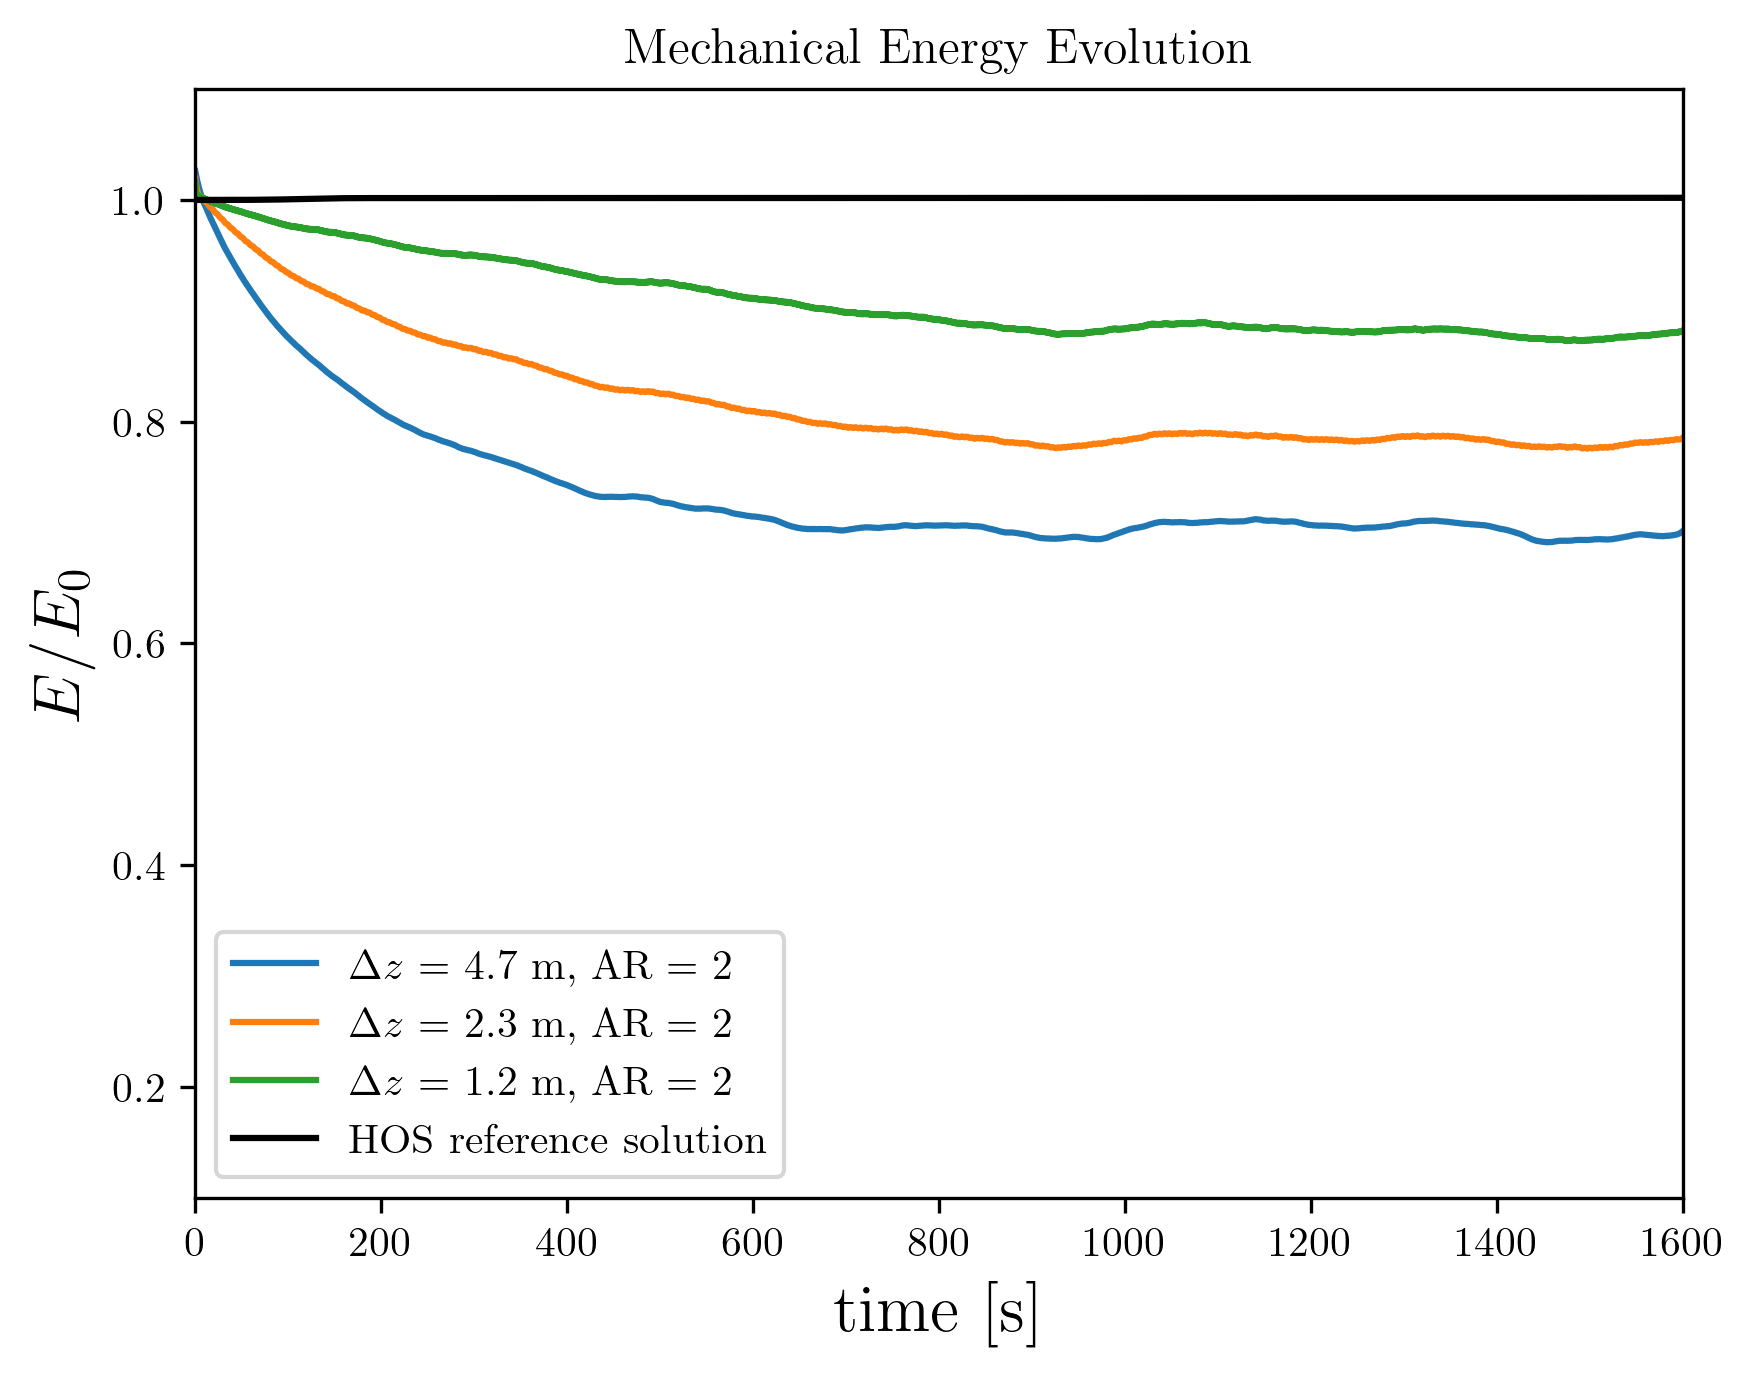
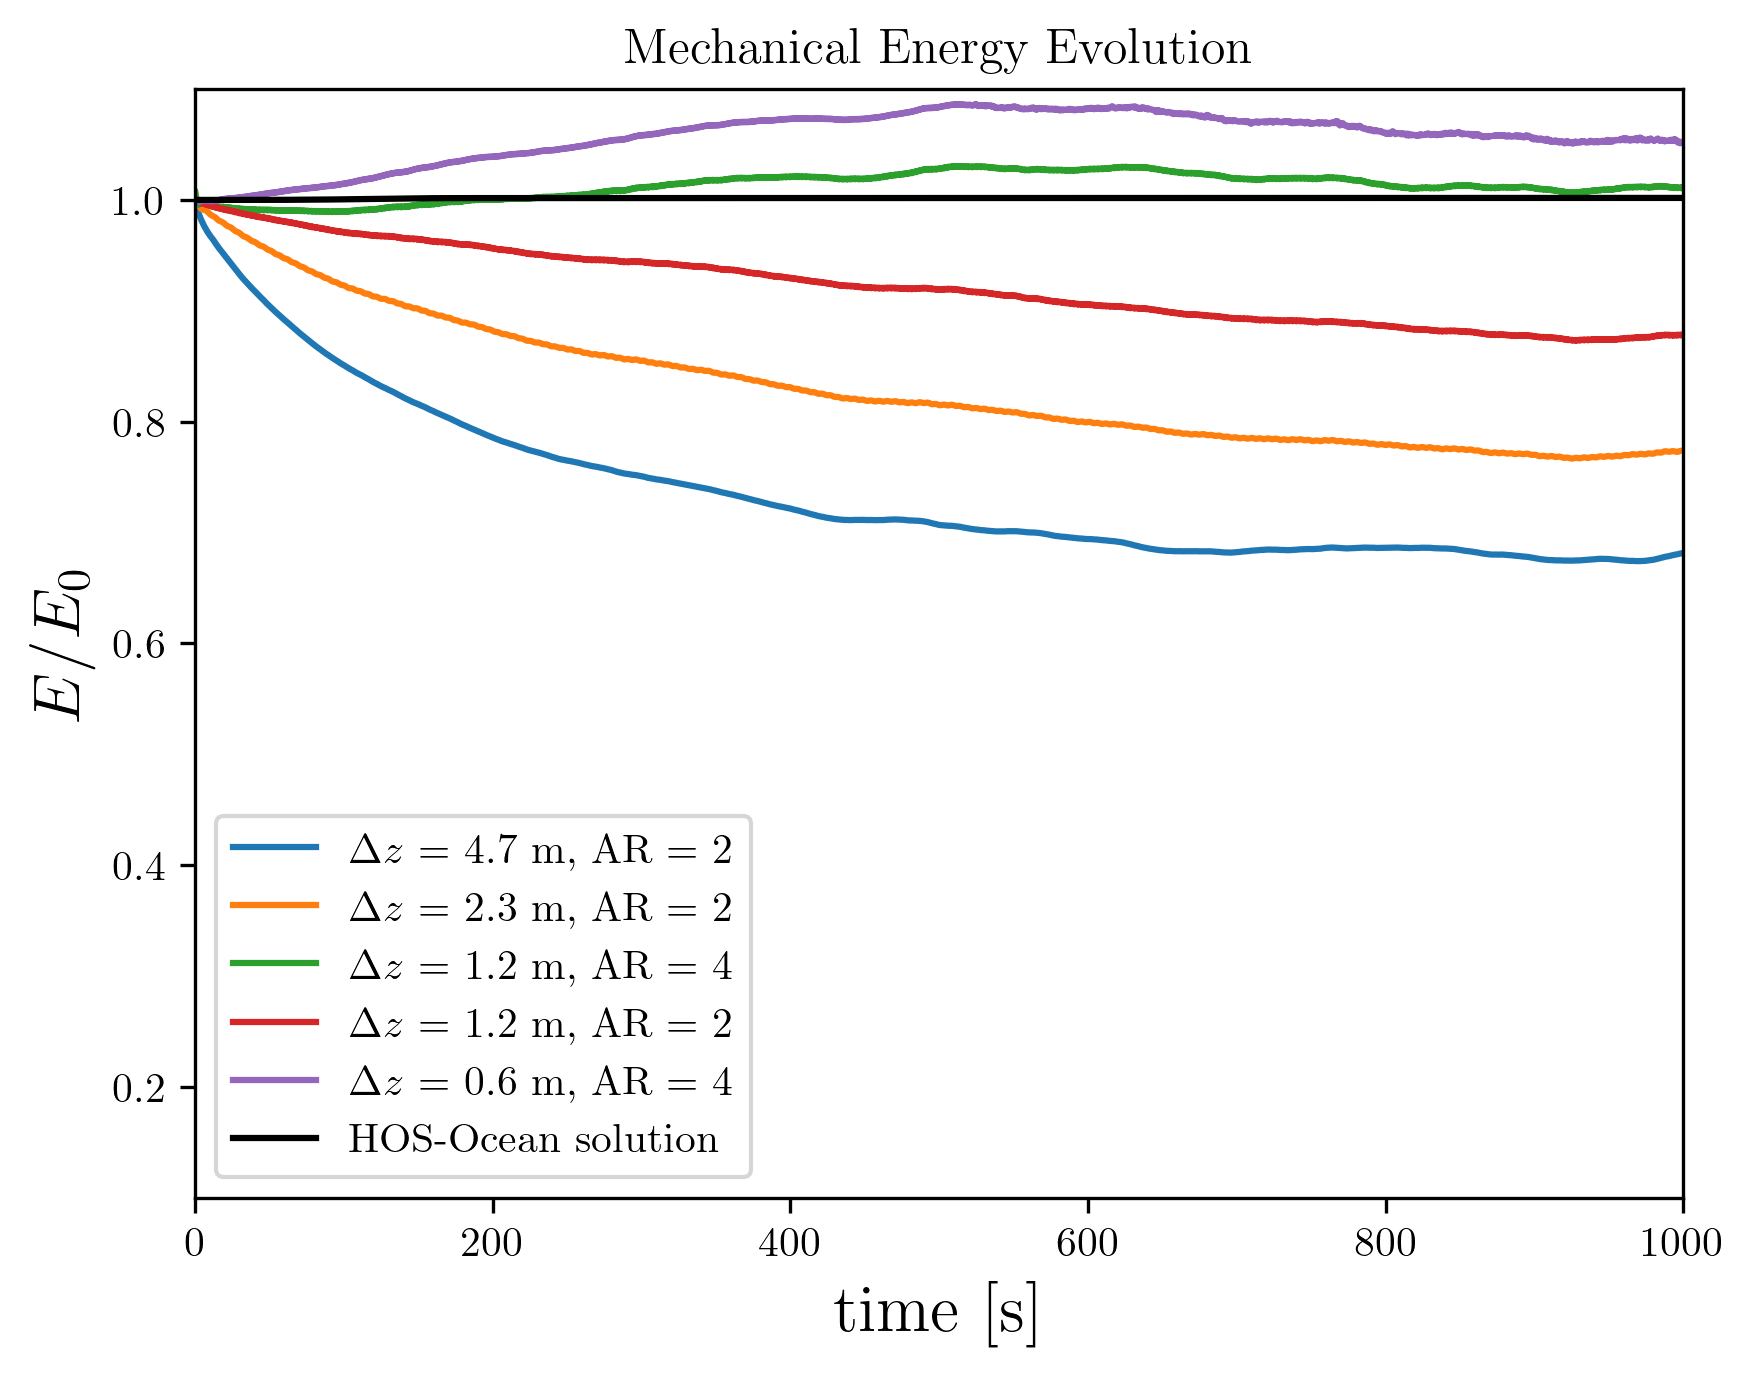
update energy

diff --git a/AMR_Wind_cases/irregular_ocean_periodic/spectral_analysis.py b/AMR_Wind_cases/irregular_ocean_periodic/spectral_analysis.py
@@ -279,6 +279,26 @@ def _(np, path):
     HOSEnergy = np.genfromtxt(path+"/HOS/vol_energy.dat",skip_header=67)
     return (HOSEnergy,)
 
+@app.cell
+def _(np):
+    def trim_array(arr):
+        tally = 0
+        latest_time = arr[arr.shape[0] - 1, 0]
+        for i in range(arr.shape[0] - 2, 0, -1):
+            if (latest_time > arr[i, 1]):
+                tally += 1
+                latest_time = arr[i, 1]
+        arr_new = np.zeros((tally,arr.shape[1]))
+        tally = 0
+        latest_time = arr[arr.shape[0] - 1, 0]
+        for i in range(arr.shape[0] - 2, 0, -1):
+            if (latest_time > arr[i, 1]):
+                tally += 1
+                latest_time = arr[i, 1]
+                arr_new[arr_new.shape[0] - tally, :] = arr[i, :]
+                
+        return arr_new
+    return trim_array
 
 @app.cell
 def _(np, path):
@@ -311,11 +331,13 @@ def _(np, path):
     return CFDE_mech256_fourlev_AR2x, CFD_time256_fourlev_AR2x
 
 @app.cell
-def _(np, path):
+def _(np, path, trim_array):
     ## Load the CFD data
     CFDE_array256_fivelev = np.genfromtxt(path+"/SGF/5_ref_levels/we00000.txt",skip_header=1,delimiter='')
     CFDE_array256_fivelev = np.append(CFDE_array256_fivelev, np.genfromtxt(path+"/SGF/5_ref_levels/we07950.txt",skip_header=1,delimiter=''), axis=0)
     CFDE_array256_fivelev = np.append(CFDE_array256_fivelev, np.genfromtxt(path+"/SGF/5_ref_levels/we10600.txt",skip_header=1,delimiter=''), axis=0)
+
+    CFDE_array256_fivelev = trim_array(CFDE_array256_fivelev)
     
 
     CFDE_mech256_fivelev = CFDE_array256_fivelev[:,2]+CFDE_array256_fivelev[:,3]
@@ -324,11 +346,17 @@ def _(np, path):
     return CFDE_mech256_fivelev, CFD_time256_fivelev
 
 @app.cell
-def _(np, path):
+def _(np, path, trim_array):
     ## Load the CFD data
     CFDE_array256_fivelev_AR2x = np.genfromtxt(path+"/SGF/5_ref_levels_AR2x/we00000.txt",skip_header=1,delimiter='')
     CFDE_array256_fivelev_AR2x = np.append(CFDE_array256_fivelev_AR2x, np.genfromtxt(path+"/SGF/5_ref_levels_AR2x/we20950.txt",skip_header=1,delimiter=''), axis=0)
-    
+    CFDE_array256_fivelev_AR2x = np.append(CFDE_array256_fivelev_AR2x, np.genfromtxt(path+"/SGF/5_ref_levels_AR2x/we20950.txt",skip_header=1,delimiter=''), axis=0)
+    CFDE_array256_fivelev_AR2x = np.append(CFDE_array256_fivelev_AR2x, np.genfromtxt(path+"/SGF/5_ref_levels_AR2x/we41900.txt",skip_header=1,delimiter=''), axis=0)
+    CFDE_array256_fivelev_AR2x = np.append(CFDE_array256_fivelev_AR2x, np.genfromtxt(path+"/SGF/5_ref_levels_AR2x/we42250.txt",skip_header=1,delimiter=''), axis=0)
+    CFDE_array256_fivelev_AR2x = np.append(CFDE_array256_fivelev_AR2x, np.genfromtxt(path+"/SGF/5_ref_levels_AR2x/we43100.txt",skip_header=1,delimiter=''), axis=0)
+    CFDE_array256_fivelev_AR2x = np.append(CFDE_array256_fivelev_AR2x, np.genfromtxt(path+"/SGF/5_ref_levels_AR2x/we57050.txt",skip_header=1,delimiter=''), axis=0)
+
+    CFDE_array256_fivelev_AR2x = trim_array(CFDE_array256_fivelev_AR2x)    
 
     CFDE_mech256_fivelev_AR2x = CFDE_array256_fivelev_AR2x[:,2]+CFDE_array256_fivelev_AR2x[:,3]
 
@@ -374,10 +402,10 @@ def _(
     plt.plot(CFD_time256_fourlev, savgol_filter(CFDE_mech256_fourlev, 11, 3) / ME_ref_CFD, label='$\\Delta z$ = 2.3 m, AR = 2')
     plt.plot(CFD_time256_fourlev_AR2x, savgol_filter(CFDE_mech256_fourlev_AR2x, 11, 3) / ME_ref_CFD, label='$\\Delta z$ = 1.2 m, AR = 4')
     plt.plot(CFD_time256_fivelev, savgol_filter(CFDE_mech256_fivelev, 11, 3) / ME_ref_CFD, label='$\\Delta z$ = 1.2 m, AR = 2')
-    plt.plot(CFD_time256_fivelev_AR2x, savgol_filter(CFDE_mech256_fivelev_AR2x, 11, 3) / ME_ref_CFD, label='$\\Delta z$ = 0.6 m, AR = 4')
+    plt.plot(CFD_time256_fivelev_AR2x, savgol_filter(CFDE_mech256_fivelev_AR2x, 31, 3) / ME_ref_CFD, label='$\\Delta z$ = 0.6 m, AR = 4')
     # plt.plot(CFD_time256_sixlev, savgol_filter(CFDE_mech256_sixlev, 11, 3) / ME_ref_CFD, label='$\\Delta z$ = 0.6 m, AR = 2')
-    plt.plot(HOSEnergy[:, 0], HOSEnergy[:, 4] / ME_ref, 'k', label='HOS reference solution')
-    plt.xlim(0, 1600)
+    plt.plot(HOSEnergy[:, 0], HOSEnergy[:, 4] / ME_ref, 'k', label='HOS-Ocean solution')
+    plt.xlim(0, 1000)
     plt.xlabel('time [s]', fontsize=16)
     plt.ylabel('$E/E_0$', fontsize=16)
     plt.legend()
